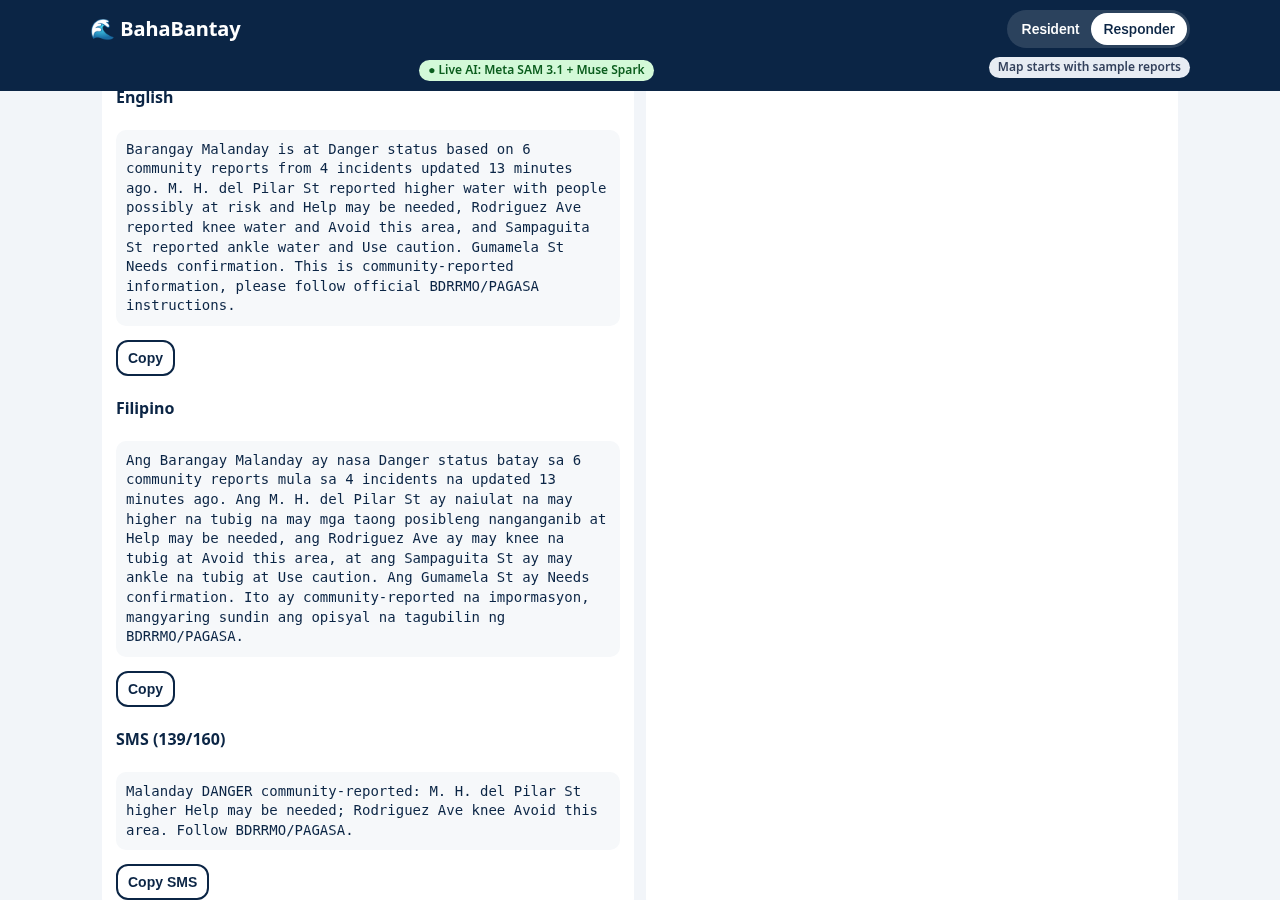
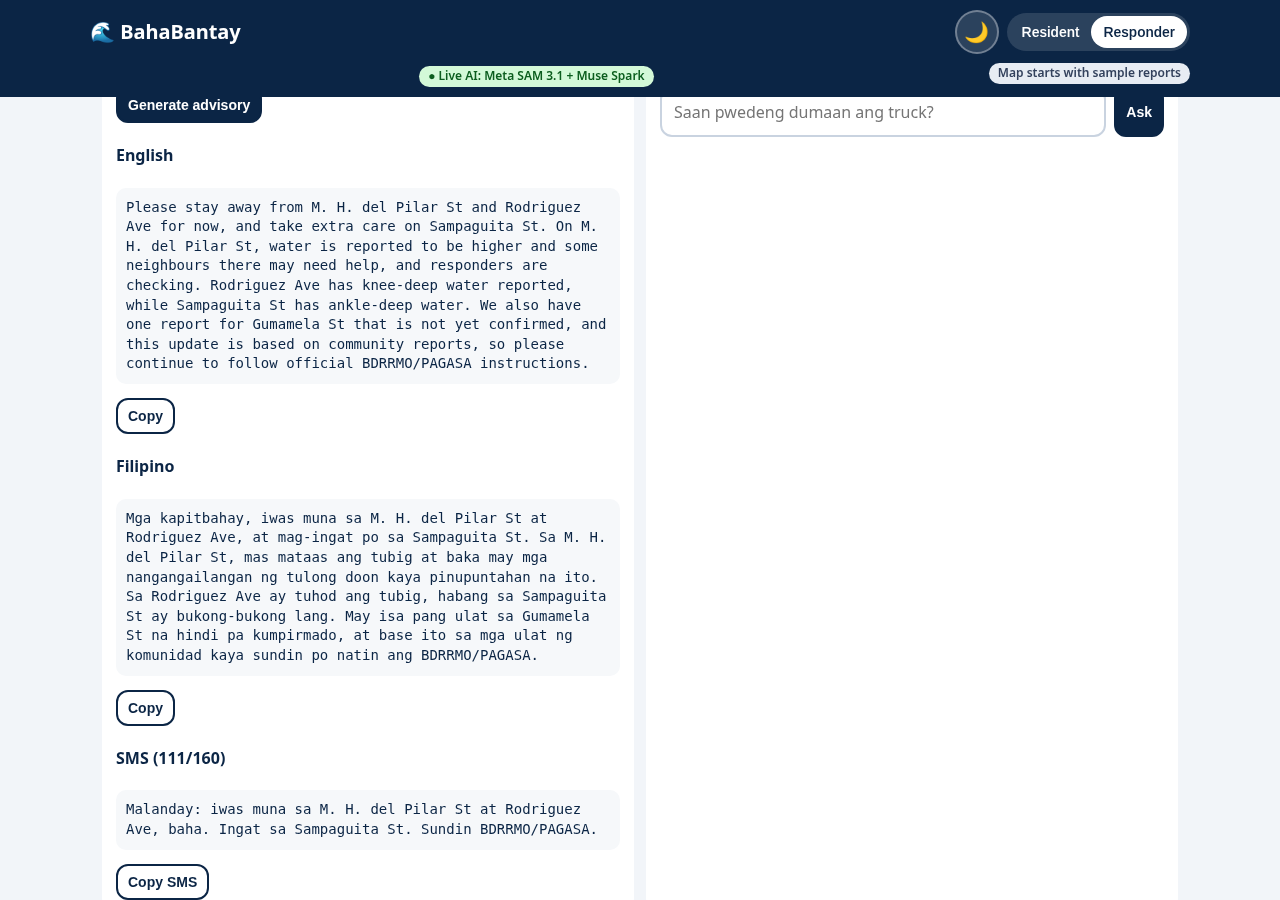
Natural-language advisory prompt, search ranking (no name/place cross-matches), dark theme toggle, refreshed screenshots + README

Changed region(s): [[0.0, 0.0, 1.0, 0.9333], [0.0625, 0.0, 0.1875, 0.0622]]

diff --git a/static/index.html b/static/index.html
@@ -3,6 +3,7 @@
 <title>BahaBantay — flood pulse for your barangay</title>
 <link rel="stylesheet" href="https://unpkg.com/leaflet@1.9.4/dist/leaflet.css">
 <script src="https://unpkg.com/leaflet@1.9.4/dist/leaflet.js"></script>
+<script>(function(){try{var t=localStorage.getItem('bb-theme');}catch(e){}if(t!=='dark'&&t!=='light')t=matchMedia('(prefers-color-scheme: dark)').matches?'dark':'light';document.documentElement.dataset.theme=t;})();</script>
 <style>
 :root{--navy:#0b2545;--navy2:#13315c;--blue:#1d6fb8;--sky:#e8f1fb;--teal:#0f8b8d;--orange:#e8590c;--amber:#f59f00;--red:#c62828;--ink:#0b2545;--mut:#4a5a70;--card:#fff;--bg:#f2f5f9}
 *{box-sizing:border-box}body{margin:0;font:16px/1.4 system-ui,-apple-system,Segoe UI,Roboto,sans-serif;background:var(--bg);color:var(--ink)}
@@ -74,9 +75,42 @@ pre{white-space:pre-wrap;background:#f6f8fa;padding:10px;border-radius:10px;font
 .acl .note{cursor:default;color:var(--mut);font-size:14px;min-height:0;background:#fafbfd}.acl .note:hover{background:#fafbfd}.acl .err{color:var(--red)}
 .spin{display:inline-block;width:14px;height:14px;border:2px solid #c9d3e0;border-top-color:var(--blue);border-radius:50%;animation:sp .7s linear infinite;vertical-align:-2px;margin-right:6px}@keyframes sp{to{transform:rotate(360deg)}}
 .chip{display:inline-flex;align-items:center;gap:8px;background:#e6f4ea;border:1px solid #7cc39a;color:#0b5a2f;border-radius:999px;padding:6px 6px 6px 12px;margin:6px 0;font-size:14px}.chip button{border:0;background:#fff;border-radius:999px;padding:8px 12px;font:inherit;font-size:13px;cursor:pointer;min-height:36px}
+
+/* dark theme */
+.thm{border:2px solid #ffffff55;background:#ffffff22;color:#fff;border-radius:999px;width:44px;height:44px;font-size:20px;cursor:pointer;flex:none}
+.hrow .hr{display:flex;gap:8px;align-items:center}
+html[data-theme=dark]{color-scheme:dark;--navy:#0a1a30;--blue:#5aa9ec;--sky:#16324f;--ink:#e6edf5;--mut:#a9b6c6;--card:#17212e;--bg:#0e141c}
+html[data-theme=dark] header{background:#0a1a30;border-bottom:1px solid #24364d}
+html[data-theme=dark] .mode button.on{background:#e6edf5;color:#0a1a30}
+html[data-theme=dark] select,html[data-theme=dark] input,html[data-theme=dark] textarea{background:#1b2633;border-color:#3a4a5e;color:var(--ink)}
+html[data-theme=dark] .b1{background:#1d6fb8;color:#fff}html[data-theme=dark] .b2{background:var(--card);color:var(--ink);border-color:#8fa3bb}
+html[data-theme=dark] .b4{background:var(--sky);color:var(--ink);border-color:var(--blue)}
+html[data-theme=dark] .card,html[data-theme=dark] .panel,html[data-theme=dark] .und,html[data-theme=dark] .drawer,html[data-theme=dark] .acl{background:var(--card);color:var(--ink);box-shadow:0 1px 3px #0008}
+html[data-theme=dark] .col{background:#121b26}
+html[data-theme=dark] .t-safe{color:#5fd3c4}html[data-theme=dark] .t-caution{color:#ffc94d}html[data-theme=dark] .t-avoid{color:#ff9a5c}html[data-theme=dark] .t-confirm{color:#b6c2d1}html[data-theme=dark] .t-help{color:#ff8a8a}
+html[data-theme=dark] .fresh{color:#b6c2d1}html[data-theme=dark] .hot a{color:var(--ink);border-color:#24364d}html[data-theme=dark] .hot a span{color:var(--blue)}
+html[data-theme=dark] .btn{background:var(--card);color:var(--ink);border-color:#8fa3bb}html[data-theme=dark] .btn.pri{background:#1d6fb8;border-color:#1d6fb8;color:#fff}html[data-theme=dark] .btn.red{border-color:#ff8a8a;color:#ff8a8a}
+html[data-theme=dark] .choice button{background:#1b2633;border-color:#3a4a5e;color:var(--ink)}html[data-theme=dark] .choice button.on{background:var(--sky);border-color:var(--blue)}
+html[data-theme=dark] .steps i{background:#3a4a5e}html[data-theme=dark] .steps i.on{background:var(--blue)}
+html[data-theme=dark] .und div,html[data-theme=dark] .acl li{border-color:#24364d}
+html[data-theme=dark] .note,html[data-theme=dark] .cov{background:#3a2e10;color:#ffe3a3}
+html[data-theme=dark] .acl .note,html[data-theme=dark] .acl .note:hover{background:#121b26;color:var(--mut)}html[data-theme=dark] .acl mark{background:#7a5d00;color:#fff}
+html[data-theme=dark] .ladder span{background:#1b2633;color:#a9b6c6}html[data-theme=dark] .ladder span.on{background:#1d6fb8;color:#fff}
+html[data-theme=dark] pre{background:#0b1118;color:var(--ink)}
+html[data-theme=dark] .pill.sample{background:#2a3646;color:#dbe4ee}html[data-theme=dark] .pill.live{background:#12391d;color:#9be9a8}html[data-theme=dark] .pill.warn{background:#3a2e10;color:#ffe3a3}
+html[data-theme=dark] .chip{background:#12391d;border-color:#2f7a4a;color:#c9f2d4}html[data-theme=dark] .chip button{background:#1b2633;color:var(--ink)}
+html[data-theme=dark] .toast{background:#e6edf5;color:#0a1a30}
+.note.danger{background:#ffe3e3;color:#7a1010}.panel.waitp{background:#e8f1fb}
+html[data-theme=dark] .note.danger{background:#4a1515;color:#ffd6d6}html[data-theme=dark] .panel.waitp{background:var(--sky)}
+html[data-theme=dark] .ev{border-left-color:#3a4a5e}
+html[data-theme=dark] .leaflet-tile-pane{filter:invert(1) hue-rotate(180deg) brightness(.85) contrast(.9)}
+html[data-theme=dark] .leaflet-container{background:#1b2633}
+html[data-theme=dark] .leaflet-popup-content-wrapper,html[data-theme=dark] .leaflet-popup-tip{background:var(--card);color:var(--ink)}
+html[data-theme=dark] .leaflet-control-attribution{background:#0e141ccc!important;color:#a9b6c6}html[data-theme=dark] .leaflet-control-attribution a{color:#8cc4f2}
+html[data-theme=dark] .leaflet-bar a{background:#1b2633;color:var(--ink);border-color:#3a4a5e}
 </style></head><body>
 <header><div class="hrow"><h1>🌊 BahaBantay</h1>
-<div class="mode" role="tablist"><button id="mRes" class="on" onclick="setMode('res')">Resident</button><button id="mResp" onclick="setMode('resp')">Responder</button></div></div>
+<div class="hr"><button id="thm" class="thm" type="button" onclick="toggleTheme()" aria-label="Switch to dark theme" title="Switch to dark theme">🌙</button><div class="mode" role="tablist"><button id="mRes" class="on" onclick="setMode('res')">Resident</button><button id="mResp" onclick="setMode('resp')">Responder</button></div></div></div>
 <div class="live" id="live"><span class="pill sample">Checking AI provider…</span></div></header>
 <main>
 <!-- RESIDENT -->
@@ -169,7 +203,7 @@ pre{white-space:pre-wrap;background:#f6f8fa;padding:10px;border-radius:10px;font
 
 <!-- HELP FLOW -->
 <div class="sheet" id="hsheet"><header><button class="x" onclick="closeSheet('hsheet')" aria-label="Close">✕</button><b>🆘 I need help / Kailangan ko ng tulong</b></header>
-<main class="wrap"><div class="note" style="background:#ffe3e3;color:#7a1010">If life is in danger, call <b>911</b> or your barangay now. This request goes to the responder queue; it is not a guaranteed rescue.</div>
+<main class="wrap"><div class="note danger">If life is in danger, call <b>911</b> or your barangay now. This request goes to the responder queue; it is not a guaranteed rescue.</div>
  <div id="hForm"><label>Barangay</label><input id="hBrgy" autocomplete="off" placeholder="Search barangay"><div id="hBrgySug" class="src"></div><label>Street or landmark</label><input id="hStreet" placeholder="e.g. M. H. del Pilar St, blue gate">
  <label>What do you need? (who, how many)</label><textarea id="hNote" rows="3" placeholder="Hal. 3 kami, may lola na hindi makalakad, nasa 2nd floor"></textarea>
  <div class="row"><button class="btn sm" onclick="gps('h')">📡 Share my location</button><span class="src" id="hLoc">Optional. Exact location is shown to responders only.</span></div>
@@ -335,7 +369,7 @@ function openDrawer(id){const i=grid.find(x=>x.id==id);if(!i)return;const step=L
  <div class="row"><button class="btn sm pri" onclick="review(${i.id},'confirm')">✓ Confirm</button><button class="btn sm" onclick="review(${i.id},'reject')">✕ Reject</button><button class="btn sm" onclick="review(${i.id},'request_info')">❓ Request more info</button><button class="btn sm red" onclick="review(${i.id},'escalate')" ${i.confidence==null?'disabled title="Escalation needs a confidence value (safety rule)"':''}>⬆ Escalate</button></div>
  <h3>Evidence</h3>${i.evidence.map(e=>`<div class="ev ${e.source}"><b>${{user_reported:'👤 User reported',ai_detected:'🤖 AI detected',community_confirmed:'👥 Community',responder:'🛡 Responder'}[e.source]}</b> <span class="src">${new Date(e.at).toLocaleString()}</span><br>${esc(e.text)}</div>`).join('')}
  <div class="thumbs">${i.members.filter(m=>m.image_path).map(m=>`<a href="${esc(m.image_path)}" target="_blank"><img src="${esc(m.image_path)}" alt="report ${m.id}"></a>`).join('')}</div>
- ${i.members.filter(m=>m.status=='needs_info').map(m=>`<div class="panel" style="background:#e8f1fb"><b>❓ Waiting on reporter (#${m.id}):</b> ${esc(m.question)}</div>`).join('')}
+ ${i.members.filter(m=>m.status=='needs_info').map(m=>`<div class="panel waitp"><b>❓ Waiting on reporter (#${m.id}):</b> ${esc(m.question)}</div>`).join('')}
  <h3>Share text</h3><pre>${esc(i.share_text)}</pre>`;$('drawer').classList.add('on')}
 async function review(id,a){const note=a=='request_info'?(prompt('What do you need to know?')||''):'';try{await post(`/api/incidents/${id}/review`,{action:a,note});toast('Saved: '+a.replace('_',' '));await loadGrid();openDrawer(id)}catch(e){toast(e.message)}}
 async function genAdvisory(){const b=$('rbrgy').value||$('brgy').value,btn=$('advBtn');btn.disabled=true;btn.innerHTML='<span class="spin"></span>Writing…';
@@ -347,4 +381,10 @@ async function genAdvisory(){const b=$('rbrgy').value||$('brgy').value,btn=$('ad
 $('askf').onsubmit=async e=>{e.preventDefault();const b=$('rbrgy').value||$('brgy').value;if(!$('askq').value.trim())return;$('ans').textContent='…';
  try{const j=await post('/api/ask',{barangay:b,question:$('askq').value});$('ans').textContent=j.answer;$('askSrc').textContent=`· ${b} · ${j.provider=='meta'?'Muse Spark':'grounded template'}`}catch(e){$('ans').textContent='Error: '+e.message}};
 (async()=>{await loadHealth();await loadBrgys();await refresh();if(location.hash=='#responder')setMode('resp')})();
-</script></body></html>
+</script><script>
+function paintThemeBtn(){const d=document.documentElement.dataset.theme==='dark',b=document.getElementById('thm');if(!b)return;b.textContent=d?'☀':'🌙';const l=d?'Switch to light theme':'Switch to dark theme';b.setAttribute('aria-label',l);b.title=l;b.setAttribute('aria-pressed',d);document.querySelector('meta[name=theme-color]').content=d?'#0a1a30':'#0b2545'}
+function toggleTheme(){const t=document.documentElement.dataset.theme==='dark'?'light':'dark';document.documentElement.dataset.theme=t;try{localStorage.setItem('bb-theme',t)}catch(e){}paintThemeBtn()}
+paintThemeBtn();
+try{matchMedia('(prefers-color-scheme: dark)').addEventListener('change',e=>{if(!localStorage.getItem('bb-theme')){document.documentElement.dataset.theme=e.matches?'dark':'light';paintThemeBtn()}})}catch(e){}
+</script>
+</body></html>

diff --git a/app/providers/meta.py b/app/providers/meta.py
@@ -328,10 +328,18 @@ class MetaReports:
         try:
             client = get_client()
             developer = (
-                "You write a short barangay flood advisory for residents. Use ONLY the facts JSON; never invent streets, "
-                "depths, numbers or orders. Reply ONLY JSON {\"en\": \"3-5 sentences\", \"fil\": \"same in Filipino\", "
-                "\"sms\": \"<=160 chars Filipino-English digest\"}. Say it is community-reported and to follow official "
-                "BDRRMO/PAGASA instructions."
+                "You are a calm, caring barangay disaster officer writing a short flood advisory for residents. "
+                "Use ONLY the facts JSON: never invent streets, places, depths, times, counts, phone numbers or orders. "
+                "Write natural, plain language a worried neighbour understands. Do NOT copy the app's status labels or "
+                "field names verbatim (e.g. 'Help may be needed', 'Avoid this area', 'Needs confirmation', 'Use caution', "
+                "'action_label'); say what they mean instead, e.g. 'please stay away from Rizal Street for now', "
+                "'some residents there may need help and responders are checking', 'this report is not yet confirmed'. "
+                "Lead with what people should do, mention the streets by name, keep a steady reassuring tone, no "
+                "ALL CAPS or alarmist words. Mention once that this is based on community reports and to follow "
+                "official BDRRMO/PAGASA instructions. Reply ONLY JSON {\"en\": \"3-5 sentences\", "
+                "\"fil\": \"the same advice in natural conversational Filipino (not word-for-word)\", "
+                "\"sms\": \"one plain Taglish text message, at most 160 characters, naming the barangay and the key "
+                "street(s) to avoid\"}."
             )
             raw = _muse_chat(client, [{"role": "developer", "content": developer},
                                       {"role": "user", "content": json.dumps(facts, ensure_ascii=False, default=str)}])

diff --git a/app/geo.py b/app/geo.py
@@ -80,16 +80,22 @@ def search_full(q: str, limit: int = 10) -> tuple[int, list[dict]]:
     if not toks: return 0, []
     rows, _, keys = _load(); hits = []
     for r, (nm, loc) in zip(rows, keys):
-        nw = nm.split(); name_t, loc_exact, ok = [], 0, True
+        nw = nm.split(); name_t, loc_exact, ok, lead, cross = [], 0, True, True, False
         for t in toks:
-            if any(w.startswith(t) for w in nw): name_t.append(t)
-            elif any(w.startswith(t) for w in loc): loc_exact += t in loc
+            if lead and any(w.startswith(t) for w in nw): name_t.append(t); continue
+            lead = False
+            if any(w.startswith(t) for w in loc): loc_exact += t in loc
+            elif any(w.startswith(t) for w in nw): name_t.append(t); cross = True
             else: ok = False; break
         if not ok or not name_t: continue          # at least one token must hit the barangay name
         nq = " ".join(name_t)
         tier = 0 if nm == nq else 1 if nm.startswith(nq) else 2
-        score = (tier, r["city"] not in PRIORITY_CITIES, -len(name_t), -loc_exact, len(nm), r["label"])
+        # leading query tokens should name the barangay, trailing ones the place; a row whose
+        # name is only hit by a trailing token (e.g. Brgy "Cebu" in San Isidro, Isabela) ranks last
+        score = (cross or toks[0] not in name_t, tier, r["city"] not in PRIORITY_CITIES, -len(name_t), -loc_exact, len(nm), r["label"])
         hits.append((score, r))
+    if any(not h[0][0] for h in hits):             # drop cross-matches when clean matches exist
+        hits = [h for h in hits if not h[0][0]]
     hits.sort(key=lambda h: h[0])
     return len(hits), [public(r) for _, r in hits[:limit]]
 

diff --git a/tests/test_geo.py b/tests/test_geo.py
@@ -65,3 +65,12 @@ def test_find_empty_and_short(client):
     assert client.get("/api/barangays/find", params={"q": "zzqxw"}).json() == {"q": "zzqxw", "total": 0, "items": []}
     assert client.get("/api/barangays/find", params={"q": "a"}).json()["items"] == []
     assert geo.short_region("Region XI (Davao Region)") == "Davao Region"
+
+
+def test_search_qualifier_does_not_cross_match_name():
+    from app import geo
+    n, res = geo.search_full("san isidro, cebu", 20)
+    assert res and all(r["name"] == "San Isidro" and r["province"] == "Cebu" for r in res)
+    assert not any("Isabela" in r["label"] for r in res)
+    # a name-only query still finds barangays named Cebu
+    assert any(r["name"].lower().startswith("cebu") or "cebu" in r["name"].lower() for r in geo.search("cebu"))

diff --git a/tests/test_app.py b/tests/test_app.py
@@ -210,3 +210,11 @@ def test_meta_answer_falls_back_on_api_error(monkeypatch):
          "rate_cm_per_h": None, "trend_arrow": "", "people_at_risk": False}], "needs_info": 0}
     out = MetaReports().answer(s, "where can a car pass?", "en")
     assert out["provider"] == "mock" and out["streets"] == ["A St"]
+
+
+def test_dark_theme_toggle_present(client):
+    html = client.get("/").text
+    assert 'id="thm"' in html and 'aria-label="Switch to dark theme"' in html
+    assert "localStorage.getItem('bb-theme')" in html and "prefers-color-scheme: dark" in html
+    assert html.index("bb-theme") < html.index("<style>")      # applied before first paint
+    assert "html[data-theme=dark]" in html and ".leaflet-tile-pane{filter" in html

diff --git a/README.md b/README.md
@@ -21,7 +21,11 @@ Live demo: https://bahabantay-466317436519.asia-southeast1.run.app (append `#res
 | **Advisory (EN / FIL / SMS)** | **Emergency hotlines** |
 | ![Advisory and SMS](docs/screenshots/09-advisory-sms.png) | ![Hotlines card](docs/screenshots/10-hotlines.png) |
 
-More: [`docs/screenshots/04a-near-me-mindanao.png`](docs/screenshots/04a-near-me-mindanao.png) ("Near me" suggestions from GPS).
+| **Barangay search (subtitles, match count)** | **Dark theme: resident** | **Dark theme: responder** |
+| ![Search with city/province subtitles](docs/screenshots/04b-search-subtitles.png) | ![Dark resident view](docs/screenshots/11-dark-theme.png) | ![Dark responder grid](docs/screenshots/12-dark-responder.png) |
+
+More: [`04a-near-me-mindanao.png`](docs/screenshots/04a-near-me-mindanao.png) ("Near me" suggestions from GPS) ·
+[`04c-search-selected.png`](docs/screenshots/04c-search-selected.png) (selected-barangay chip).
 
 ## The loop
 **Report → AI understands → Resident confirms → Alert → Help**
@@ -49,6 +53,11 @@ More: [`docs/screenshots/04a-near-me-mindanao.png`](docs/screenshots/04a-near-me
 - **All 42,010 barangays** (PSA PSGC, Q1 2026) are searchable server-side (`/api/barangays/search`, `/api/barangays/nearest`).
   Reports outside the demo's responder coverage (Marikina) are accepted and labeled **Outside responder coverage**.
   A barangay with no reports shows **No data**, never "Safe".
+- **Search UX:** "Searching…" spinner while typing; every suggestion shows barangay + city, province and region, so the 374
+  San Isidros are distinguishable; a match count ("20 of 374 matches, add a city or province to narrow"); a clear no-match hint;
+  a "✅ Selected: Brgy, City, Province" chip with **Change**; keyboard navigation. Leading words match the barangay name and
+  trailing words the place, so `san isidro, cebu` returns only San Isidro barangays in Cebu (a barangay *named* "Cebu"
+  elsewhere is not mixed in).
 - A barangay is a label, not a flood footprint. Each report is snapped to a **~250 m square** (`/api/cells`). Solid = observed &
   confirmed, dashed = single reporter, gray = old or weak. Blank = no data, not "no flood". Each square shows last observed time,
   weighted depth and confidence. The public map shows only squares; exact points are responder-only.
@@ -125,6 +134,12 @@ Other env vars: `BAHABANTAY_META_FALLBACK` (default true), `BAHABANTAY_DB`, `BAH
 These are prototype checks on data we wrote and labeled ourselves. They are not field accuracy. Details: `docs/eval/`.
 
 ## Honest limits
+- **Advisory tone:** Muse Spark is prompted to write like a calm barangay officer: plain language, streets named, status labels
+  paraphrased rather than copied, grounded only in the current incident facts (no invented numbers or places), plus a ≤160-char
+  Taglish SMS. If the Meta call fails, the deterministic template advisory is used and the header says so.
+- **Dark theme:** 🌙/☀ toggle in the header. Defaults to the device's light/dark setting, remembers your choice, and is applied
+  before the page paints (no white flash). Covers every screen including the map (OpenStreetMap tiles are darkened with a CSS
+  filter; attribution kept). Status labels always carry text and icons, not just color.
 - The advisory generator takes about 26–40 s on the live Meta models (a spinner shows while it works).
 - Barangay centroids are approximate (84 have no polygon match and are flagged); they only label and center the map, never mark a flood.
 - 250 m squares show where reports are, not the true flood boundary; there is no interpolation, elevation or drainage model yet.
